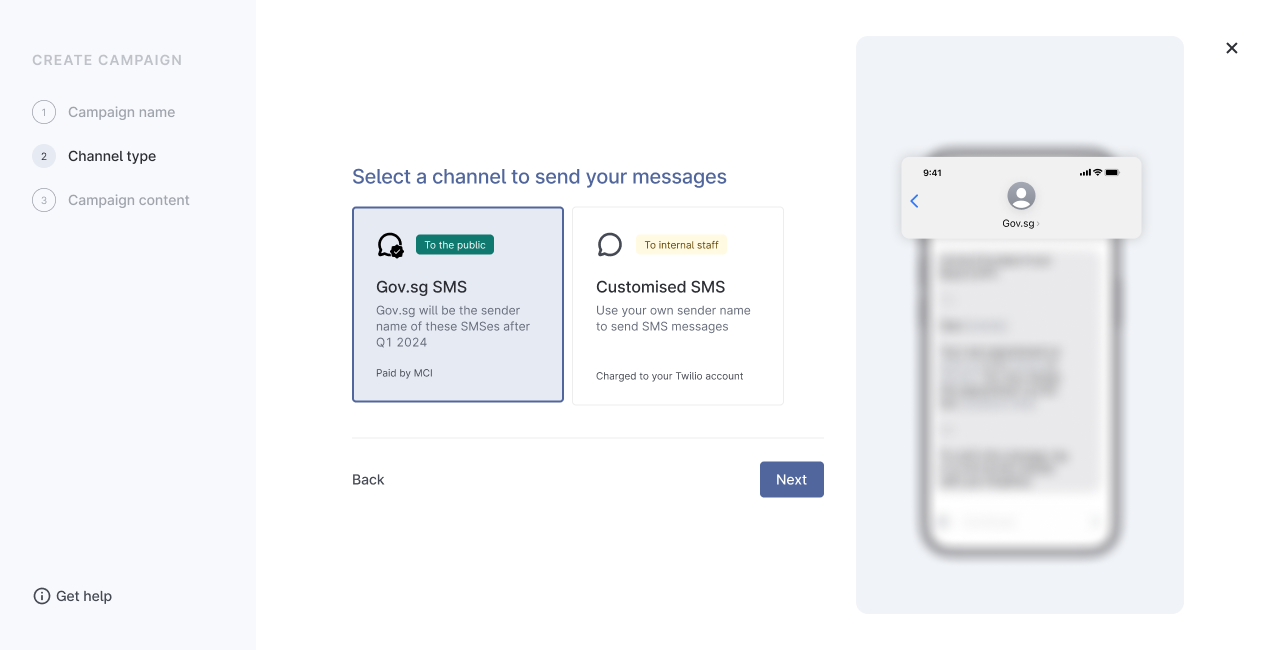
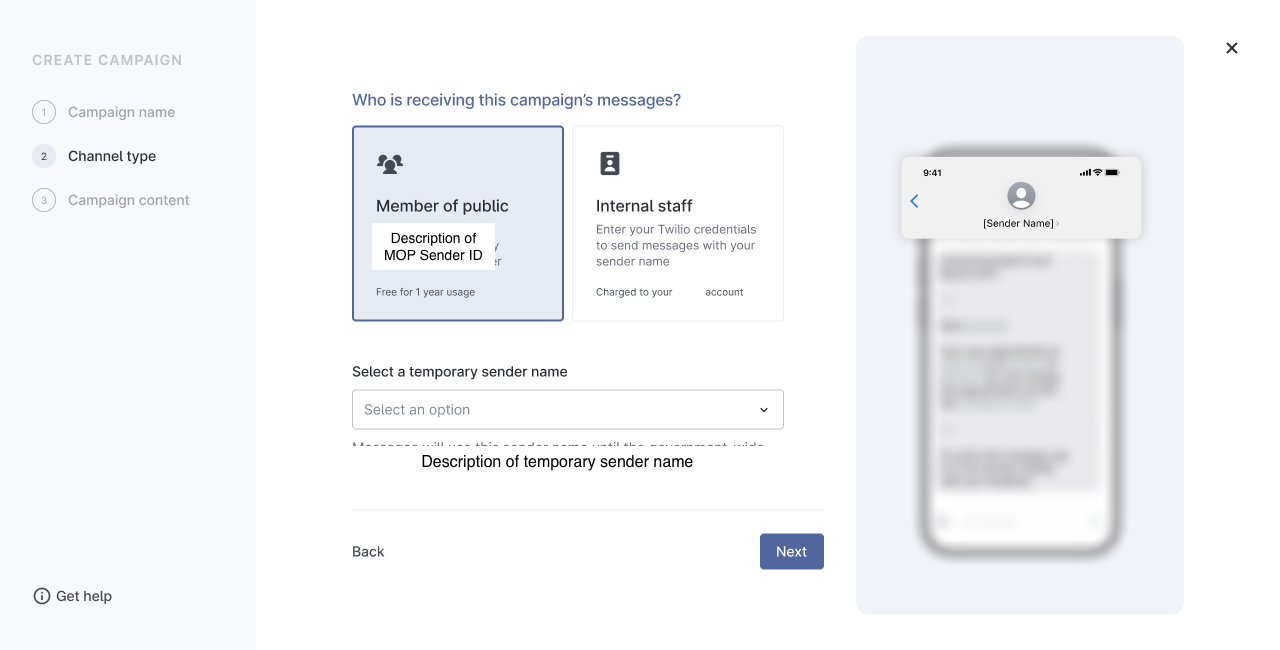
GITBOOK-22: Updated images, no content change

diff --git a/campaigns-and-messages/create-campaign.md b/campaigns-and-messages/create-campaign.md
@@ -17,12 +17,12 @@ In order to obtain your API keys for system integration, you will need to&#x20;
 
 ### Available channels for campaign creation
 
-Postman has 2 types of campaign channels available - Gov.sg SMS and Customised SMS
+Postman has 2 types of campaign channels available - **Member of Public** and **Internal Staff**
 
-<figure><img src="../.gitbook/assets/Frame 8 (1).png" alt=""><figcaption></figcaption></figure>
+<figure><img src="../.gitbook/assets/Step 2_ Gov.sg selected.png" alt=""><figcaption></figcaption></figure>
 
-1. Gov.sg SMS: To send out messages with the `Gov.sg` Sender ID
-2. Customised SMS - to send out with your own sender ID
-   * You will need to provide your own Twilio credentials if you choose the `Customised SMS` option
+1. Member of Public: To send out messages to MOPs
+2. Internal Staff - to send out with your own sender ID
+   * You will need to provide your own Twilio credentials if you choose the `Internal Staff` option
 
 ###

diff --git a/campaigns-and-messages/create-message.md b/campaigns-and-messages/create-message.md
@@ -85,7 +85,7 @@ If you are an API user that
 
 you may create a single variable, `{{body}}`, and insert the message into the `{{body}}` variable.
 
-<figure><img src="../.gitbook/assets/{{body}} (1).png" alt=""><figcaption></figcaption></figure>
+<figure><img src="../.gitbook/assets/Frame 12 (1).png" alt=""><figcaption></figcaption></figure>
 
 **Request Body example - single variable `{{body}}`**
 

diff --git a/campaigns-and-messages/logging-into-postman-v2.md b/campaigns-and-messages/logging-into-postman-v2.md
@@ -22,6 +22,6 @@ If you have more than 1 official `gov.sg` email address belonging to different a
 
 <div align="left">
 
-<figure><img src="../.gitbook/assets/choose account (1).png" alt=""><figcaption></figcaption></figure>
+<figure><img src="../.gitbook/assets/Options.png" alt=""><figcaption></figcaption></figure>
 
 </div>
